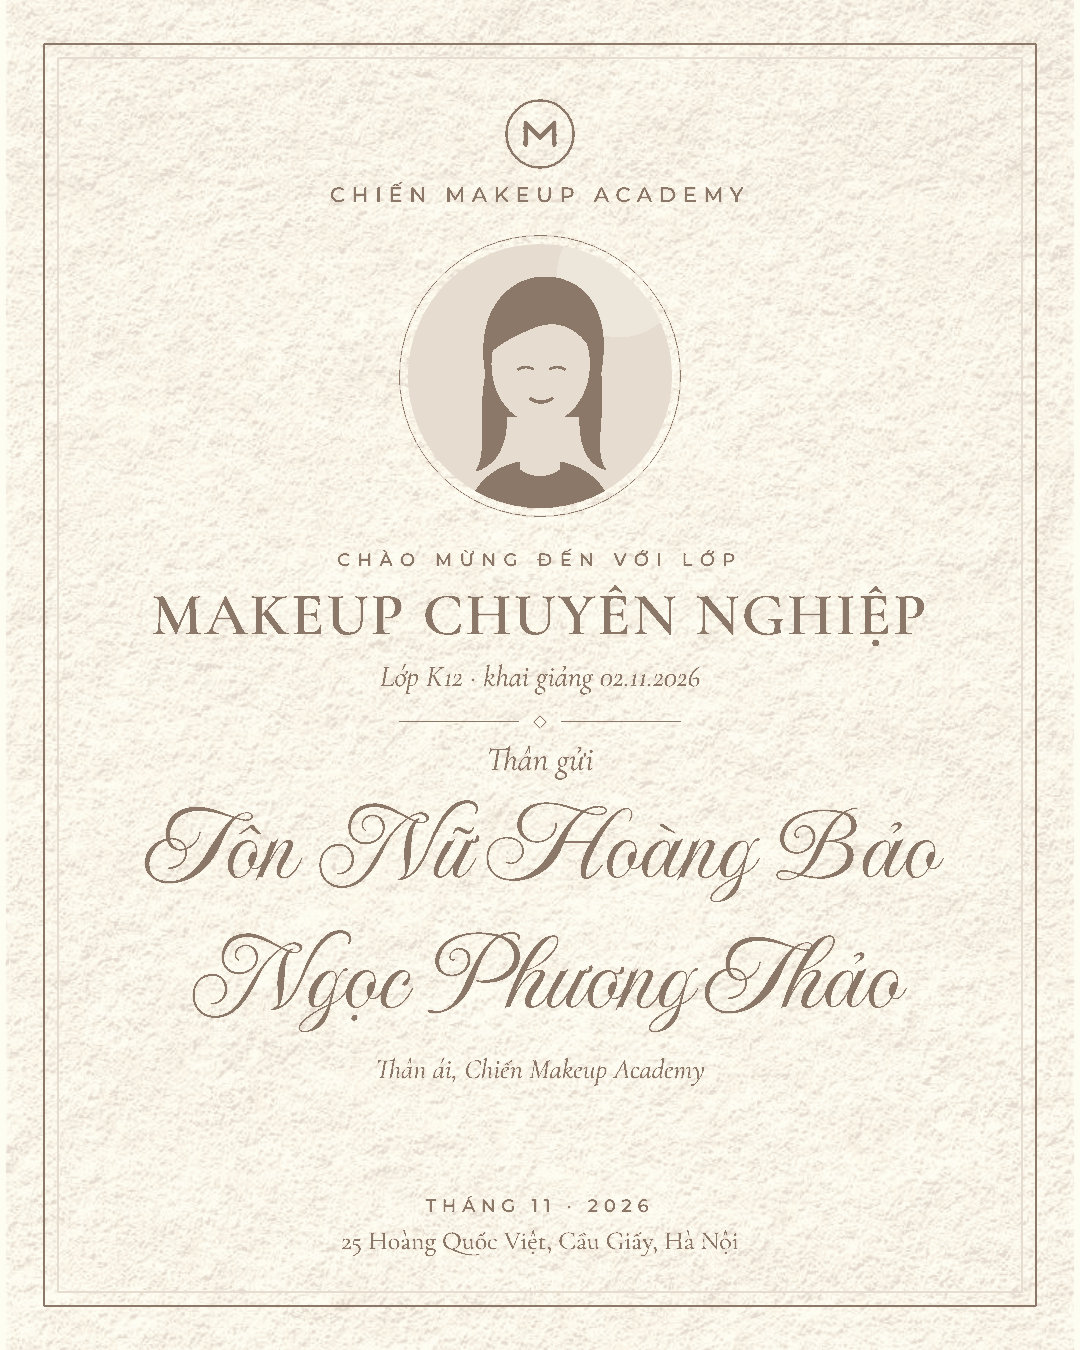
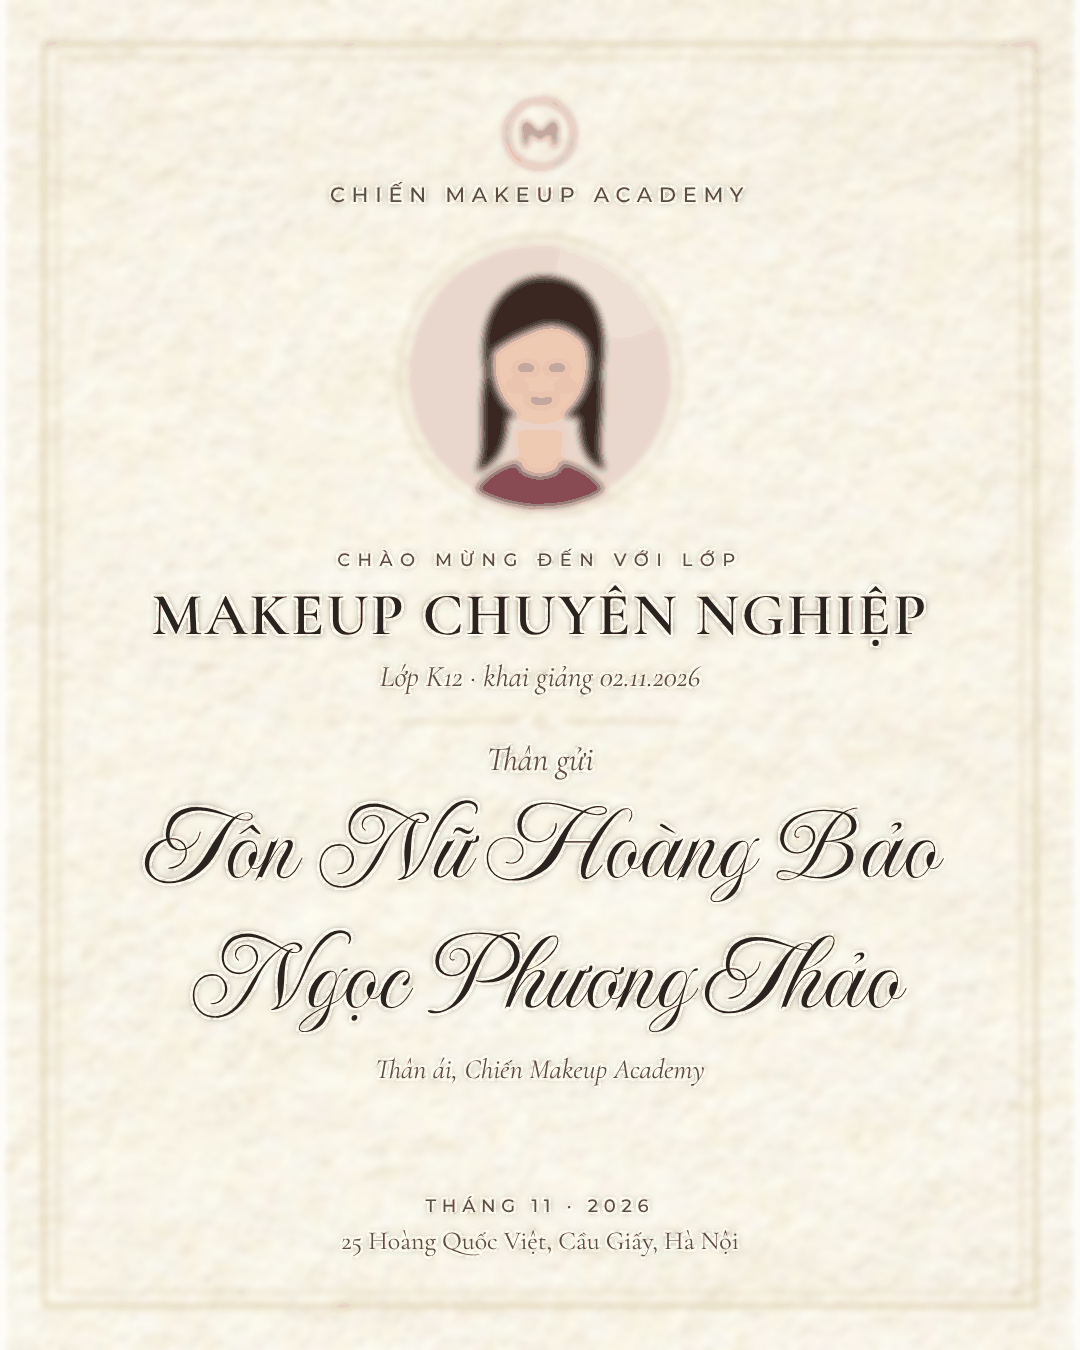
WIP các thợ và R&D — CHƯA nghiệm thu, bản chụp hiện trạng
Claude-Session: https://claude.ai/code/session_01JtcbzsRF6LmqL5L8fC9fxM

diff --git a/docs/rnd/v7-nen-hoa-van/do-kiem/nen-anh2.py b/docs/rnd/v7-nen-hoa-van/do-kiem/nen-anh2.py
@@ -1,0 +1,14 @@
+# Bản nộp cho ảnh vân giấy quá nặng: giữ NGUYÊN điểm ảnh chữ/ảnh/logo (khác bản "chỉ nền" > 6), làm mịn vân giấy phần còn lại
+# (Gaussian 1,6 px), rồi nén 256 màu. Số đo tương phản lấy trên bản gốc chưa nén.
+import sys,io,os
+import numpy as np
+from PIL import Image,ImageFilter
+goc,nen,dst=sys.argv[1:4]
+a=Image.open(goc).convert('RGB');A=np.asarray(a).astype(int);B=np.asarray(Image.open(nen).convert('RGB')).astype(int)
+m=(np.abs(A-B).max(2)>6)
+m=np.asarray(Image.fromarray((m*255).astype('uint8')).filter(ImageFilter.MaxFilter(5)))>0
+for r in [1.6,2.4,3.5]:
+  M=np.asarray(a.filter(ImageFilter.GaussianBlur(r)));C=np.where(m[...,None],A,M).astype('uint8')
+  q=Image.fromarray(C).quantize(colors=256,method=Image.Quantize.MEDIANCUT,dither=Image.Dither.NONE);b=io.BytesIO();q.save(b,'PNG',optimize=True)
+  if b.tell()<=600*1024:break
+open(dst,'wb').write(b.getvalue());print(os.path.basename(dst),b.tell()//1024,'KB, mịn vân',r,'px')
